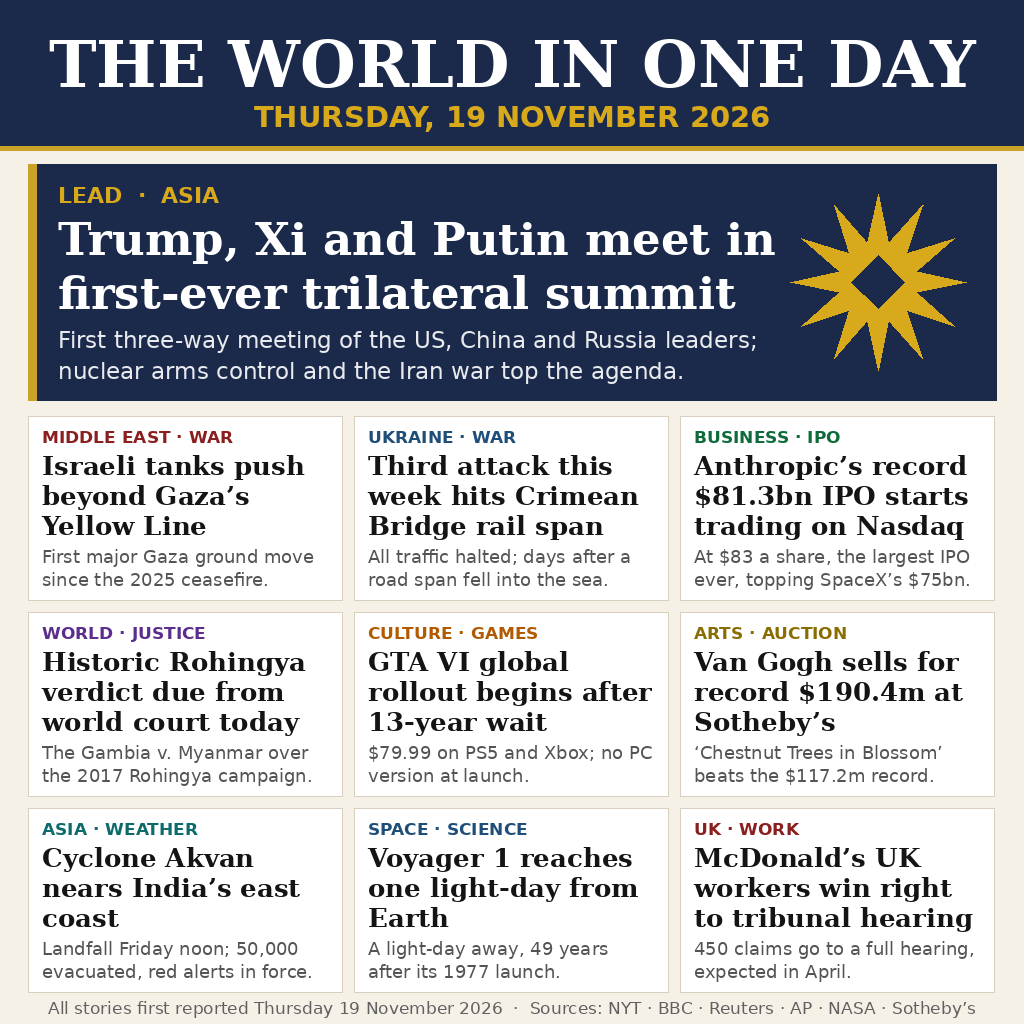
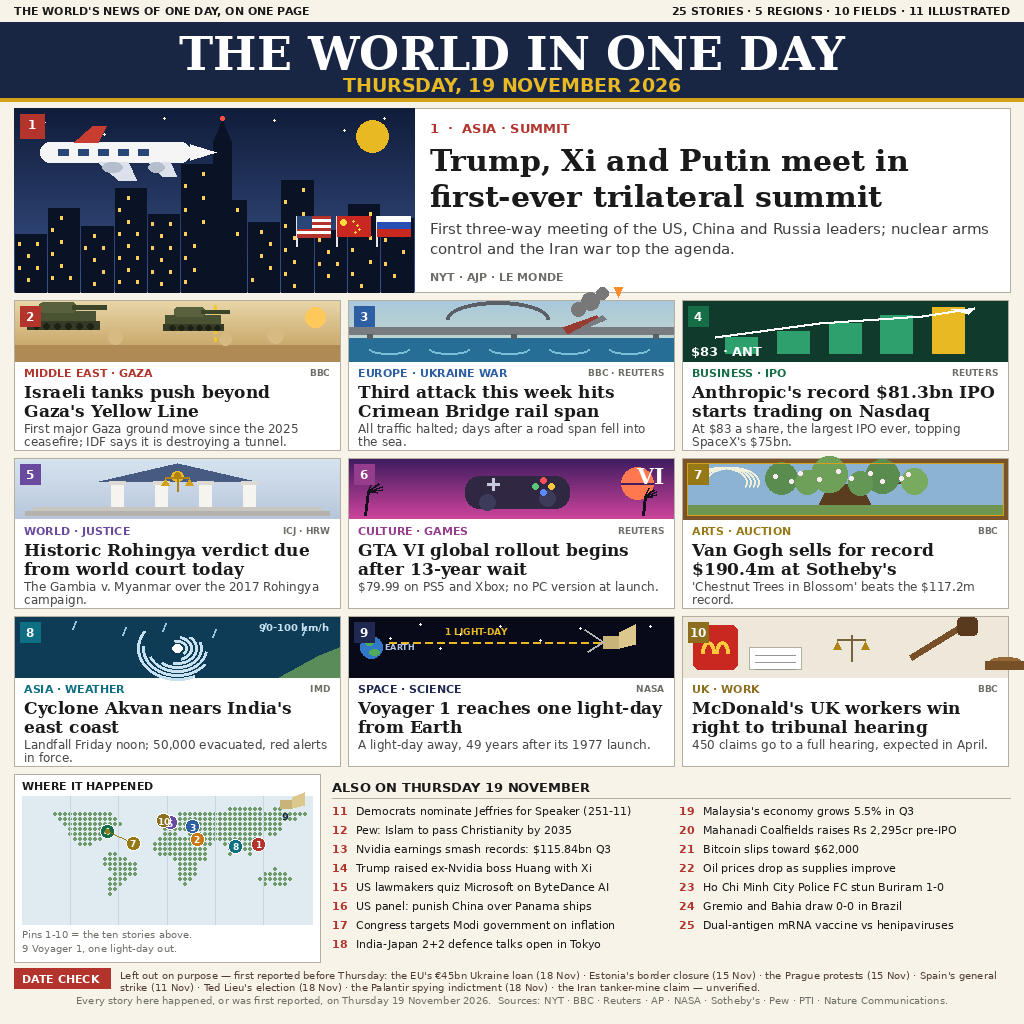
make.fun entry: rebuild entry.png winner-style with illustrations + authored main.py

diff --git a/main.py b/main.py
@@ -1,40 +1,25 @@
-#!/usr/bin/env python3
-"""make.fun bounty entry: Sum up 19 November's world news in one image.
+"""Copy entry.png to the output directory.
 
-The entry image is bundled as entry.png; this program copies it to the
-output directory. Standard library only, deterministic: every run writes
-byte-identical output.
-
-Usage:
-    mkdir -p out && MAKEFUN_OUTPUT_DIR=out python3 main.py
+Standard library only. The output directory comes from the
+MAKEFUN_OUTPUT_DIR environment variable when it is set, and falls
+back to /output otherwise. The copied file is always named entry.png.
 """
 
 import os
 import shutil
 from pathlib import Path
 
-HERE = Path(__file__).resolve().parent
-OUT_DIR = Path(os.environ.get("MAKEFUN_OUTPUT_DIR", "out"))
 
-
-def main():
-    src = HERE / "entry.png"
-    if not src.is_file():
-        raise SystemExit(f"entry.png not found next to {__file__}")
-    OUT_DIR.mkdir(parents=True, exist_ok=True)
-    # Copy via a temp file and rename, so a run never leaves a partial
-    # entry.png behind; the bytes written are the bundled file's, unchanged.
-    tmp = OUT_DIR / ".entry.png.tmp"
-    shutil.copyfile(src, tmp)
-    os.replace(tmp, OUT_DIR / "entry.png")
-    # Verify the written file: it must be non-empty, and report its size.
-    # The bytes are the bundled file's, unchanged, so every run prints the
-    # same number.
-    written = OUT_DIR / "entry.png"
-    size = written.stat().st_size
-    if size == 0:
-        raise SystemExit("entry.png was written empty")
-    print(f"wrote {written} ({size} bytes)")
+def main() -> None:
+    source = Path(__file__).resolve().parent / "entry.png"
+    output_dir = Path(os.environ.get("MAKEFUN_OUTPUT_DIR", "/output"))
+    output_dir.mkdir(parents=True, exist_ok=True)
+    destination = output_dir / "entry.png"
+    shutil.copyfile(source, destination)
+    if not destination.is_file():
+        raise SystemExit("entry.png was not copied: destination is missing")
+    if destination.stat().st_size != source.stat().st_size:
+        raise SystemExit("entry.png was not copied: size mismatch")
 
 
 if __name__ == "__main__":
